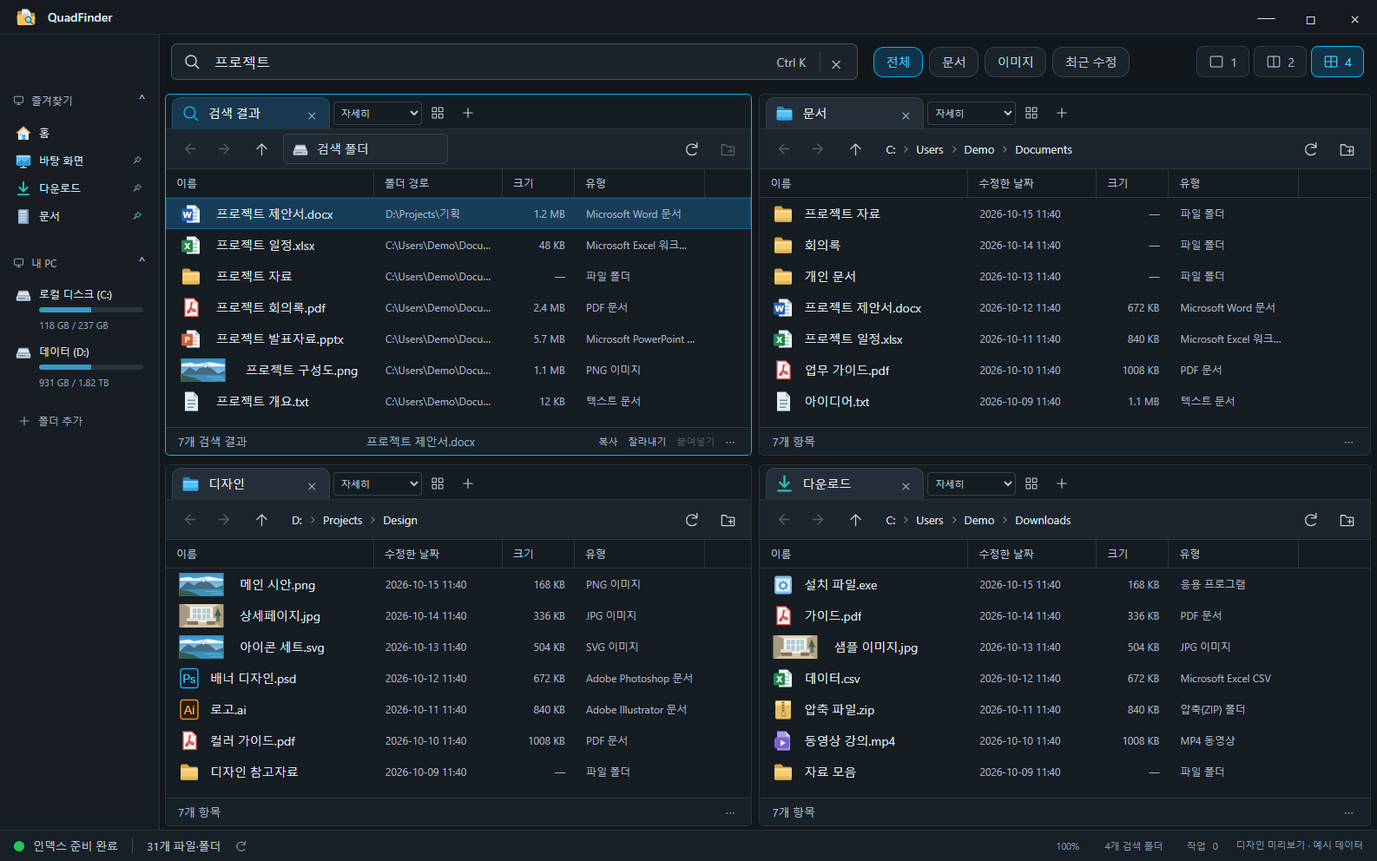
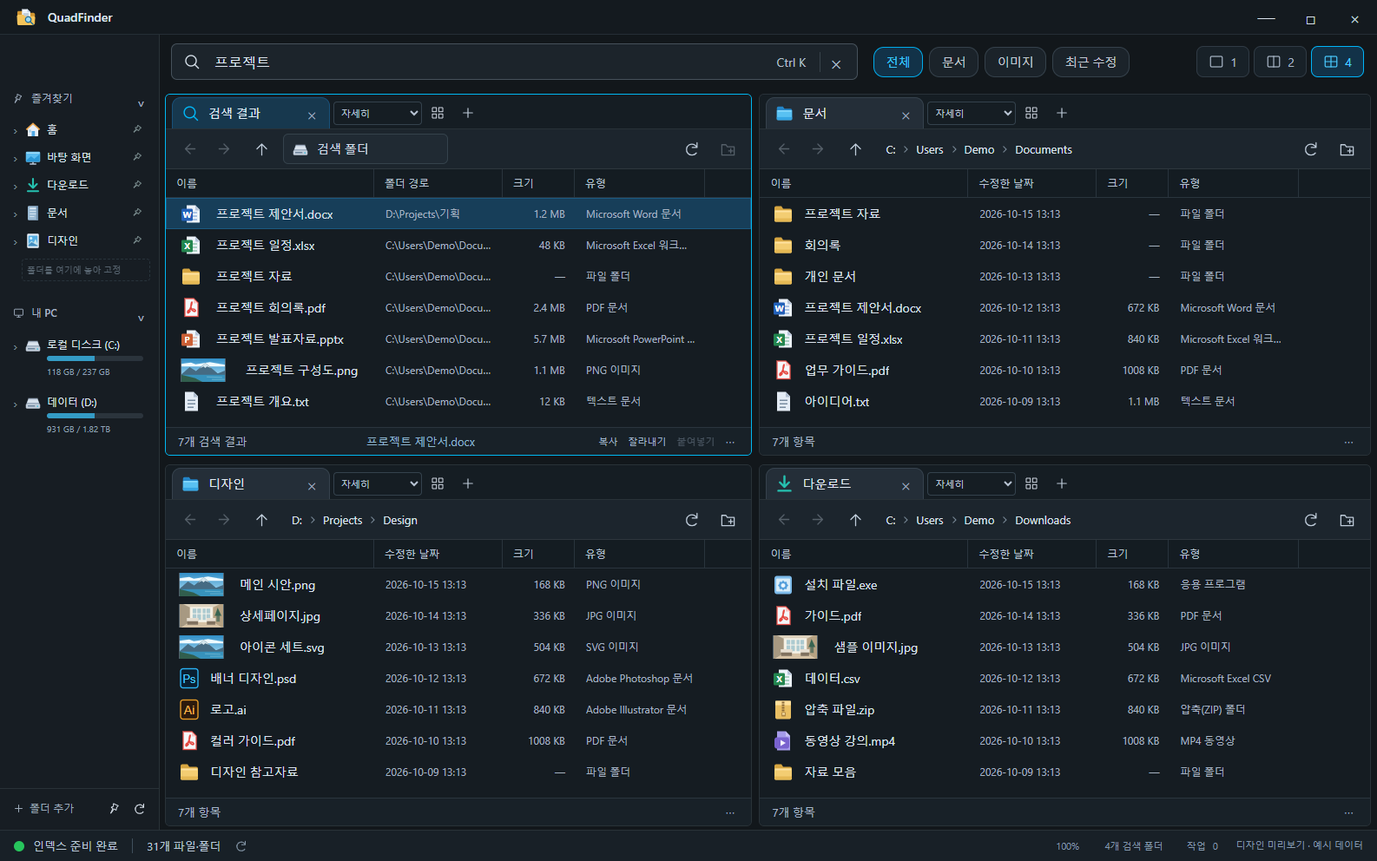
네비게이션 접기와 폴더 트리 및 즐겨찾기 관리 기능 추가

Changed region(s): [[0.0, 0.0938, 0.1236, 0.5]]

diff --git a/src/renderer/sidebar.js b/src/renderer/sidebar.js
@@ -1,0 +1,121 @@
+const sidebarCache=new Map();
+let sidebarSequence=0,sidebarDrag=null,sidebarLabelPath=null,sidebarTimer,sidebarDirty=new Set();
+function navState(){return state.navigation||(state.navigation=NavigationState.normalize());}
+const navKey=value=>NavigationState.key(value);
+function customLocations(){
+  const settings=navState(),known=new Set(state.boot.places.map(item=>navKey(item.path))),hidden=new Set(settings.hidden.map(navKey));
+  const paths=[...new Map([...settings.favorites,...state.boot.roots].filter(path=>!known.has(navKey(path))&&!hidden.has(navKey(path))).map(path=>[navKey(path),path])).values()];
+  const order=new Map(settings.order.map((path,i)=>[navKey(path),i]));return paths.sort((a,b)=>(order.get(navKey(a))??1e6)-(order.get(navKey(b))??1e6));
+}
+function saveNavigation(){state.navigation=NavigationState.normalize(navState());save();}
+function toggleNavSection(section,collapsed=!navState().collapsed[section]){
+  navState().collapsed[section]=collapsed;
+  const button=document.querySelector(`[data-nav-section="${section}"]`),group=$('#'+button.getAttribute('aria-controls'));
+  button.setAttribute('aria-expanded',String(!collapsed));button.querySelector('.collapse-mark').textContent=collapsed?'›':'⌄';group.hidden=collapsed;
+  syncSidebar();saveNavigation();
+  if(!collapsed)for(const node of group.querySelectorAll('.nav-item'))if(node.querySelector('.nav-toggle').getAttribute('aria-expanded')==='true'&&!node.closest('.nav-children[hidden]'))loadNavChildren(node,sidebarDirty.delete(node.dataset.navPath));
+}
+function pinLocation(path){
+  const settings=navState();settings.hidden=settings.hidden.filter(value=>navKey(value)!==navKey(path));
+  if(!settings.favorites.some(value=>navKey(value)===navKey(path)))settings.favorites.push(path);
+  settings.collapsed.favorites=false;saveNavigation();renderSidebar();
+}
+function unpinLocation(path){const settings=navState();settings.favorites=settings.favorites.filter(value=>navKey(value)!==navKey(path));if(state.boot.roots.some(value=>navKey(value)===navKey(path)))settings.hidden.push(path);saveNavigation();renderSidebar();toast('바로가기를 제거했습니다. 실제 폴더와 검색 대상은 유지됩니다.');}
+function reorderLocation(path,before){const paths=customLocations(),from=paths.findIndex(value=>navKey(value)===navKey(path)),to=paths.findIndex(value=>navKey(value)===navKey(before));if(from<0||to<0||from===to)return;paths.splice(to,0,paths.splice(from,1)[0]);navState().order=paths;saveNavigation();renderSidebar();}
+function openSidebarPath(path,mode='current'){
+  let index=state.active;
+  if(mode==='other'){if(state.layout===1)applyLayout(2);index=index===0?1:0;}
+  if(mode==='tab'){const pane=state.panes[index];if(pane.tabs.length>=20)return toast('패널당 최대 20개 탭을 사용할 수 있습니다.');pane.tabs.push(makeTab(path));pane.active=pane.tabs.length-1;setActive(index);renderPane(index);load(index);save();}
+  else {setActive(index);navigate(index,path);}
+}
+async function treeEntries(path,reload=false){
+  const key=navKey(path);if(reload)sidebarCache.delete(key);
+  let entry=sidebarCache.get(key);if(entry?.entries)return entry.entries;if(entry?.promise)return entry.promise;
+  entry={};sidebarCache.set(key,entry);if(sidebarCache.size>128)sidebarCache.delete(sidebarCache.keys().next().value);
+  entry.promise=(api.folders?call(api.folders(path)):call(api.list(path)).then(data=>data.entries.filter(item=>item.directory&&!item.link))).then(entries=>{entry.entries=entries;entry.promise=null;return entries;}).catch(error=>{sidebarCache.delete(key);throw error;});return entry.promise;
+}
+function makeNavItem(item,category,depth=0,parentPath=null,section=category==='drive'?'pc':'favorites'){
+  const path=item.path,key=navKey(path),expanded=navState().expanded.some(value=>navKey(value)===key),id='nav-children-'+(++sidebarSequence);
+  const node=document.createElement('div');node.className='nav-item';node.dataset.navPath=path;node.dataset.category=category;node.dataset.section=section;node.dataset.depth=depth;node.style.setProperty('--depth',depth);
+  const label=navState().labels[key]||item.label||basename(path),drive=category==='drive';node.dataset.label=label;
+  node.innerHTML=`<div class="nav-row"><button class="nav-toggle" aria-label="${escapeHTML(label)} 하위 폴더 ${expanded?'접기':'펼치기'}" aria-expanded="${expanded}" aria-controls="${id}" ${depth>=12?'disabled':''}>${expanded?'⌄':'›'}</button><button class="nav-location ${drive?'drive-button':''}" role="treeitem" aria-level="${depth+1}" aria-expanded="${expanded}" data-location="${escapeHTML(path)}" ${category==='custom'&&depth===0?'data-root-nav="true" draggable="true"':''} title="${escapeHTML(path)} · Ctrl+클릭 또는 휠클릭: 새 탭">${icon(item.icon||'folder-blue')}${drive?`<span class="drive-info"><span>${escapeHTML(label)}</span>${item.total?`<span class="drive-meter" role="meter" aria-label="${escapeHTML(label)} 사용량" aria-valuemin="0" aria-valuemax="100" aria-valuenow="${Math.round(100*item.used/item.total)}"><i class="drive-fill"></i></span><small>${driveSize(item.used)} / ${driveSize(item.total)}</small>`:''}</span>`:`<span class="nav-label">${escapeHTML(label)}</span>${category!=='child'&&category!=='drive'?`<span class="place-pin">${icon('pin')}</span>`:''}`}</button></div><div id="${id}" class="nav-children" role="group" ${expanded?'':'hidden'}></div>`;
+  const button=node.querySelector('.nav-location'),toggle=node.querySelector('.nav-toggle');
+  node.querySelector('.drive-fill')?.style.setProperty('width',`${Math.min(100,Math.max(0,100*item.used/item.total))}%`);
+  button.onclick=event=>openSidebarPath(path,event.ctrlKey||event.metaKey?'tab':'current');button.onauxclick=event=>{if(event.button===1){event.preventDefault();openSidebarPath(path,'tab');}};
+  button.oncontextmenu=event=>{event.preventDefault();event.stopPropagation();showSidebarMenu(path,category,event.clientX,event.clientY);};
+  toggle.onclick=()=>expandNavItem(node,toggle.getAttribute('aria-expanded')!=='true');
+  button.onkeydown=event=>{
+    if(event.altKey&&event.key==='Enter'){event.preventDefault();event.stopPropagation();if(api.shellMenu)call(api.shellMenu({paths:[path],verb:'properties',x:0,y:0})).catch(error=>toast(error.message));return;}
+    if(event.altKey)return;
+    if(['ArrowDown','ArrowUp','Home','End','ArrowLeft','ArrowRight','F5','ContextMenu','F2','Delete'].includes(event.key)||(event.shiftKey&&event.key==='F10')||(event.ctrlKey&&event.key.toLowerCase()==='c')){
+      event.preventDefault();event.stopPropagation();
+      const visible=Array.from(document.querySelectorAll('#sidebar .nav-location')).filter(element=>element.getClientRects().length),position=visible.indexOf(button);
+      if(event.key==='ArrowDown')visible[Math.min(visible.length-1,position+1)]?.focus();if(event.key==='ArrowUp')visible[Math.max(0,position-1)]?.focus();if(event.key==='Home')visible[0]?.focus();if(event.key==='End')visible.at(-1)?.focus();
+      if(event.key==='ArrowRight'){if(toggle.getAttribute('aria-expanded')!=='true')expandNavItem(node,true);else node.querySelector('.nav-children .nav-location')?.focus();}
+      if(event.key==='ArrowLeft'){if(toggle.getAttribute('aria-expanded')==='true')expandNavItem(node,false);else if(parentPath)node.parentElement.closest('.nav-item')?.querySelector('.nav-location')?.focus();}
+      if(event.key==='F5')refreshSidebar();if(event.key==='F2'&&category==='custom')renameSidebarLabel(path);if(event.key==='Delete'&&category==='custom')unpinLocation(path);
+      if(event.key==='ContextMenu'||(event.shiftKey&&event.key==='F10')){const rect=button.getBoundingClientRect();showSidebarMenu(path,category,rect.x+20,rect.bottom);}
+      if(event.ctrlKey&&event.key.toLowerCase()==='c'){if(event.shiftKey&&api.copyPaths)call(api.copyPaths([path])).catch(error=>toast(error.message));else if(api.writeClipboard)call(api.writeClipboard({kind:'copy',paths:[path]})).then(()=>{fileClipboard={kind:'copy',paths:[path]};state.panes.forEach((_,i)=>updateSelection(i));toast('폴더를 복사했습니다.');}).catch(error=>toast(error.message));}
+    }
+  };
+  if(category==='custom'&&depth===0){button.ondragstart=event=>{sidebarDrag=path;event.dataTransfer.setData('application/x-quadfinder-navigation',path);event.dataTransfer.effectAllowed='move';};button.ondragend=()=>{sidebarDrag=null;document.querySelectorAll('.nav-drop-target').forEach(element=>element.classList.remove('nav-drop-target'));};}
+  button.ondragover=event=>{if((sidebarDrag&&category==='custom'&&depth===0)||(!sidebarDrag&&(event.dataTransfer.types.includes('application/x-quadfinder')||event.dataTransfer.types.includes('Files')))){event.preventDefault();event.dataTransfer.dropEffect=sidebarDrag?'move':event.shiftKey?'move':'copy';button.classList.add('nav-drop-target');}};
+  button.ondragleave=()=>button.classList.remove('nav-drop-target');
+  button.ondrop=async event=>{event.preventDefault();event.stopPropagation();button.classList.remove('nav-drop-target');if(sidebarDrag){if(category==='custom'&&depth===0)reorderLocation(sidebarDrag,path);sidebarDrag=null;return;}const paths=await sidebarDropPaths(event);if(paths.length)await transfer(event.shiftKey?'move':'copy',paths,path);};
+  if(expanded&&!navState().collapsed[section])loadNavChildren(node);return node;
+}
+async function expandNavItem(node,expanded){
+  const path=node.dataset.navPath,settings=navState();settings.expanded=settings.expanded.filter(value=>navKey(value)!==navKey(path));if(expanded)settings.expanded.push(path);
+  const toggle=node.querySelector('.nav-toggle');toggle.setAttribute('aria-expanded',expanded);toggle.setAttribute('aria-label',`${node.dataset.label} 하위 폴더 ${expanded?'접기':'펼치기'}`);toggle.textContent=expanded?'⌄':'›';node.querySelector('.nav-location').setAttribute('aria-expanded',expanded);node.querySelector('.nav-children').hidden=!expanded;
+  saveNavigation();syncSidebar();if(expanded)await loadNavChildren(node,sidebarDirty.delete(path));
+}
+async function loadNavChildren(node,reload=false){
+  const children=node.querySelector('.nav-children'),path=node.dataset.navPath;if(!children.childElementCount)children.innerHTML='<small class="tree-message">불러오는 중…</small>';
+  try{const entries=await treeEntries(path,reload);if(!node.isConnected)return;if((!refreshFocused&&!state.boot.preview)||navState().collapsed[node.dataset.section]){sidebarDirty.add(path);return;}const signature=entries.map(item=>item.path).join('\n');if(children.dataset.signature===signature)return;children.dataset.signature=signature;
+    let limit=100;const render=()=>{children.replaceChildren(...entries.slice(0,limit).map(item=>makeNavItem(item,'child',Number(node.dataset.depth)+1,path,node.dataset.section)));if(!entries.length)children.innerHTML='<small class="tree-message">하위 폴더 없음</small>';if(entries.length>limit){const more=document.createElement('button');more.className='tree-more';more.textContent=`폴더 더 보기 (${entries.length-limit}개)`;more.onclick=()=>{limit+=100;render();};children.append(more);}syncSidebar();};render();
+  }catch(error){if(!node.isConnected)return;children.innerHTML='<button class="tree-retry">폴더를 불러올 수 없습니다 · 다시 시도</button>';children.firstElementChild.title=error.message;children.firstElementChild.onclick=()=>loadNavChildren(node,true);}
+}
+function renderSidebar(){
+  if(!state.boot)return;const settings=navState(),scroll=$('.sidebar-scroll').scrollTop;
+  $('#places').replaceChildren(...state.boot.places.map(item=>makeNavItem(item,'place')));
+  $('#custom-places').replaceChildren(...customLocations().map(path=>makeNavItem({path},'custom')));
+  $('#drives').replaceChildren(...state.boot.drives.map(item=>makeNavItem(item,'drive')));
+  for(const section of ['favorites','pc']){const button=document.querySelector(`[data-nav-section="${section}"]`),collapsed=settings.collapsed[section];button.setAttribute('aria-expanded',String(!collapsed));button.querySelector('.collapse-mark').textContent=collapsed?'›':'⌄';$('#'+button.getAttribute('aria-controls')).hidden=collapsed;}
+  $('.sidebar-scroll').scrollTop=scroll;syncSidebar();
+}
+function renameSidebarLabel(path){sidebarLabelPath=path;$('#nav-label-dialog').returnValue='cancel';$('#nav-label-input').value=navState().labels[navKey(path)]||basename(path);$('#nav-label-dialog').showModal();$('#nav-label-input').focus();$('#nav-label-input').select();}
+function showSidebarMenu(path,category,x,y){
+  const menu=$('#context-menu'),custom=category==='custom',indexed=state.boot.roots.some(value=>navKey(value)===navKey(path));menu.className='explorer-menu';
+  const actions=[['open','열기'],['tab','새 탭에서 열기'],['other','다른 패널에서 열기'],['reveal','Windows 탐색기에서 열기'],['path','경로 복사'],[custom?'unpin':'pin',custom?'즐겨찾기에서 제거':'즐겨찾기에 고정'],...(custom?[['label','표시 이름 변경'],['up','위로 이동'],['down','아래로 이동']]:[]),[indexed?'exclude':'include',indexed?'검색 대상에서 제외':'검색 대상에 포함'],['refresh','하위 폴더 새로고침'],['properties','속성']];
+  const order=customLocations(),position=order.findIndex(value=>navKey(value)===navKey(path));
+  menu.innerHTML=actions.map(([action,label])=>`<button role="menuitem" data-nav-action="${action}" ${(action==='up'&&position<=0)||(action==='down'&&position>=order.length-1)||(action==='properties'&&!api.shellMenu)||(action==='include'&&!api.addRoot)||(action==='exclude'&&!api.removeRoot)?'disabled':''}>${['pin','unpin'].includes(action)?icon('pin'):action==='up'?icon('up'):action==='down'?icon('up').replace('<svg','<svg class="nav-arrow-down"'):['include','exclude'].includes(action)?icon('search'):menuIcon(action==='label'?'rename':action==='tab'?'other':action)}<span>${label}</span></button>`).join('');positionMenu(menu,x,y);
+  menu.querySelectorAll('button').forEach(button=>button.onclick=async()=>{menu.hidden=true;const action=button.dataset.navAction;try{
+    if(['open','tab','other'].includes(action))openSidebarPath(path,action==='open'?'current':action);
+    if(action==='reveal')await call(api.open(path));if(action==='path'&&api.copyPaths)await call(api.copyPaths([path]));if(action==='pin')pinLocation(path);if(action==='unpin')unpinLocation(path);if(action==='label')renameSidebarLabel(path);
+    if(action==='up'||action==='down'){const paths=customLocations(),index=paths.findIndex(value=>navKey(value)===navKey(path)),other=paths[index+(action==='up'?-1:1)];if(other)reorderLocation(path,other);}
+    if(action==='include'&&api.addRoot){pinLocation(path);renderRoots(await call(api.addRoot(path)));}if(action==='exclude'&&api.removeRoot){pinLocation(path);renderRoots(await call(api.removeRoot(path)));}
+    if(action==='refresh'){sidebarCache.delete(navKey(path));for(const node of document.querySelectorAll('.nav-item'))if(navKey(node.dataset.navPath)===navKey(path)&&node.querySelector('.nav-toggle').getAttribute('aria-expanded')==='true')loadNavChildren(node,true);}
+    if(action==='properties'&&api.shellMenu)await call(api.shellMenu({paths:[path],verb:'properties',x,y}));
+  }catch(error){toast(error.message);}});menu.querySelector('button')?.focus();
+}
+async function sidebarDropPaths(event){try{if(draggedPaths?.length)return [...draggedPaths];const value=event.dataTransfer.getData('application/x-quadfinder');if(value){const parsed=JSON.parse(value);return Array.isArray(parsed)?parsed.filter(item=>typeof item==='string').slice(0,256):[];}if(event.dataTransfer.files.length&&api.dropPaths)return await api.dropPaths(Array.from(event.dataTransfer.files));}catch(error){toast(error.message);}return [];}
+async function pinDroppedFolders(event){event.preventDefault();event.stopPropagation();event.currentTarget.classList.remove('nav-drop-target');const paths=await sidebarDropPaths(event);let count=0;for(const path of paths)try{const folder=api.validateFolder?await call(api.validateFolder(path)):path;pinLocation(folder);count++;}catch{}toast(count?`${count}개 폴더를 즐겨찾기에 고정했습니다.`:'폴더를 놓아주세요.');}
+async function refreshSidebar(){try{if(api.refreshDrives)state.boot.drives=await call(api.refreshDrives());sidebarCache.clear();renderSidebar();}catch(error){toast(error.message);}}
+function setupSidebarNavigation(saved){
+  state.navigation=NavigationState.normalize(saved);renderSidebar();
+  document.querySelectorAll('[data-nav-section]').forEach(button=>{button.onclick=()=>toggleNavSection(button.dataset.navSection);button.onkeydown=event=>{if(event.altKey)return;if(['ArrowLeft','ArrowRight'].includes(event.key)){event.preventDefault();toggleNavSection(button.dataset.navSection,event.key==='ArrowLeft');}};});
+  for(const element of [document.querySelector('[data-nav-section="favorites"]'),$('.pin-drop-zone')]){element.ondragover=event=>{if(event.dataTransfer.types.includes('application/x-quadfinder')||event.dataTransfer.types.includes('Files')){event.preventDefault();event.dataTransfer.dropEffect=['all','uninitialized','link','copyLink','linkMove'].includes(event.dataTransfer.effectAllowed)?'link':'copy';element.classList.add('nav-drop-target');}};element.ondragleave=()=>element.classList.remove('nav-drop-target');element.ondrop=pinDroppedFolders;}
+  $('#choose-folder').onclick=()=>{$('#nav-add-path').value='';$('#nav-add-error').textContent='';$('#nav-add-dialog').showModal();$('#nav-add-path').focus();};
+  $('#pin-current').onclick=()=>{const tab=tabOf(state.panes[state.active]);if(tab.search)return toast('고정할 폴더 패널을 선택하세요.');pinLocation(tab.path);toast('현재 폴더를 즐겨찾기에 고정했습니다.');};
+  $('#refresh-sidebar').onclick=refreshSidebar;$('#nav-add-cancel').onclick=()=>$('#nav-add-dialog').close();
+  $('#nav-add-choose').onclick=async()=>{try{const folder=await call(api.chooseFolder(false));if(folder)$('#nav-add-path').value=folder;}catch(error){$('#nav-add-error').textContent=error.message;}};
+  $('#nav-add-dialog form').onsubmit=async event=>{event.preventDefault();$('#nav-add-submit').disabled=true;try{const path=api.validateFolder?await call(api.validateFolder($('#nav-add-path').value.trim())):$('#nav-add-path').value.trim();pinLocation(path);if($('#nav-add-index').checked&&api.addRoot)renderRoots(await call(api.addRoot(path)));$('#nav-add-dialog').close();openSidebarPath(path);}catch(error){$('#nav-add-error').textContent=error.message;}finally{$('#nav-add-submit').disabled=false;}};
+  $('#nav-label-dialog').onclose=()=>{if($('#nav-label-dialog').returnValue!=='save'||!sidebarLabelPath)return;const label=$('#nav-label-input').value.trim();if(label)navState().labels[navKey(sidebarLabelPath)]=label;else delete navState().labels[navKey(sidebarLabelPath)];saveNavigation();renderSidebar();};
+  $('#sidebar').addEventListener('keydown',event=>{if(event.key==='F5'){event.preventDefault();event.stopPropagation();refreshSidebar();}});
+  api.onFilesChanged?.(paths=>{for(const node of document.querySelectorAll('.nav-item'))if(node.querySelector('.nav-toggle').getAttribute('aria-expanded')==='true'&&ChangePolicy.affects(node.dataset.navPath,paths))sidebarDirty.add(node.dataset.navPath);scheduleSidebarRefresh();});
+  window.addEventListener('focus',scheduleSidebarRefresh);
+}
+function scheduleSidebarRefresh(){
+  clearTimeout(sidebarTimer);if(!refreshFocused||!sidebarDirty.size)return;
+  sidebarTimer=setTimeout(()=>{if(!refreshFocused)return;const paths=[...sidebarDirty];sidebarDirty.clear();for(const path of paths){sidebarCache.delete(navKey(path));for(const node of document.querySelectorAll('.nav-item'))if(navKey(node.dataset.navPath)===navKey(path)&&node.querySelector('.nav-toggle').getAttribute('aria-expanded')==='true'){if(navState().collapsed[node.dataset.section]||node.closest('.nav-children[hidden]'))sidebarDirty.add(path);else loadNavChildren(node);}}},300);
+}

diff --git a/src/renderer/index.html b/src/renderer/index.html
@@ -11,6 +11,8 @@
   <script src="preview.js" defer></script>
   <script src="change-policy.js" defer></script>
   <script src="view-options.js" defer></script>
+  <script src="navigation-state.js" defer></script>
+  <script src="sidebar.js" defer></script>
   <script src="view-ui.js" defer></script>
   <script src="features.js" defer></script>
   <script src="renderer.js" defer></script>
@@ -22,12 +24,13 @@
   </header>
   <main class="app-shell">
     <aside class="sidebar" id="sidebar">
-      <div class="sidebar-heading"><span data-icon="desktop-small"></span>즐겨찾기 <span class="collapse-mark">⌃</span></div>
-      <nav id="places" aria-label="즐겨찾기"></nav>
-      <nav id="custom-places" aria-label="추가한 검색 폴더"></nav>
-      <div class="sidebar-heading drives-heading"><span data-icon="desktop-small"></span>내 PC <span class="collapse-mark">⌃</span></div>
-      <nav id="drives" aria-label="드라이브"></nav>
-      <button id="choose-folder" class="add-location"><span data-icon="plus"></span>폴더 추가</button>
+      <div class="sidebar-scroll">
+        <button class="sidebar-heading" data-nav-section="favorites" aria-expanded="true" aria-controls="favorites-group"><span data-icon="pin"></span><span>즐겨찾기</span><span class="collapse-mark" aria-hidden="true">⌄</span></button>
+        <div id="favorites-group"><nav id="places" aria-label="즐겨찾기" role="tree"></nav><nav id="custom-places" aria-label="추가한 폴더" role="tree"></nav><div class="pin-drop-zone" title="폴더를 놓으면 즐겨찾기에 고정합니다">폴더를 여기에 놓아 고정</div></div>
+        <button class="sidebar-heading drives-heading" data-nav-section="pc" aria-expanded="true" aria-controls="pc-group"><span data-icon="desktop-small"></span><span>내 PC</span><span class="collapse-mark" aria-hidden="true">⌄</span></button>
+        <div id="pc-group"><nav id="drives" aria-label="드라이브" role="tree"></nav></div>
+      </div>
+      <div class="sidebar-tools"><button id="choose-folder" class="add-location" title="로컬·네트워크 폴더 추가"><span data-icon="plus"></span>폴더 추가</button><button id="pin-current" title="현재 폴더를 즐겨찾기에 고정" aria-label="현재 폴더 고정"><span data-icon="pin"></span></button><button id="refresh-sidebar" title="폴더 트리와 드라이브 새로고침" aria-label="네비게이션 새로고침"><span data-icon="refresh"></span></button></div>
       <div id="sidebar-resizer" role="separator" tabindex="0" aria-label="탐색 영역 너비 조절" aria-orientation="vertical" aria-controls="sidebar" aria-valuemin="150" aria-valuemax="400" aria-valuenow="184" title="드래그하여 너비 조절 · 더블클릭으로 초기화 · 방향키로 조절"></div>
     </aside>
     <section class="workspace">
@@ -43,6 +46,8 @@
   <dialog id="folder-dialog"><form method="dialog"><h2>새 폴더 만들기</h2><p id="folder-parent"></p><label>폴더 이름<input id="folder-name" required maxlength="200" autocomplete="off"></label><div class="dialog-actions"><button value="cancel">취소</button><button id="create-folder" value="create" class="primary">만들기</button></div></form></dialog>
   <dialog id="rename-dialog"><form method="dialog"><h2>이름 변경</h2><p id="rename-path"></p><label>새 이름<input id="rename-name" required maxlength="240" autocomplete="off"></label><div class="dialog-actions"><button value="cancel" formnovalidate>취소</button><button value="rename" class="primary">변경</button></div></form></dialog>
   <dialog id="roots-dialog"><h2>검색 폴더</h2><p>아래 폴더와 하위 폴더의 파일 이름을 검색합니다.</p><div id="root-list"></div><div class="root-path-row"><input id="root-path" aria-label="추가할 로컬 또는 네트워크 폴더 경로" placeholder="C:\Projects 또는 \\NAS\공유폴더"><button id="add-root-path">경로 추가</button></div><div class="dialog-actions"><button id="add-root">폴더 선택</button><button id="close-roots" class="primary">닫기</button></div></dialog>
+  <dialog id="nav-add-dialog"><form><h2>폴더 추가</h2><p>로컬 폴더 또는 네트워크 공유 경로를 입력하세요.</p><label>폴더 경로<input id="nav-add-path" required placeholder="C:\Projects 또는 \\NAS\공유폴더" autocomplete="off"></label><label class="nav-check"><input id="nav-add-index" type="checkbox" checked>검색 대상에도 포함</label><p id="nav-add-error" role="alert"></p><div class="dialog-actions"><button type="button" id="nav-add-cancel">취소</button><button type="button" id="nav-add-choose">폴더 선택</button><button type="submit" id="nav-add-submit" class="primary">추가</button></div></form></dialog>
+  <dialog id="nav-label-dialog"><form method="dialog"><h2>바로가기 표시 이름</h2><p>실제 폴더 이름은 변경하지 않습니다. 비우면 원래 이름을 사용합니다.</p><input id="nav-label-input" maxlength="80" aria-label="바로가기 표시 이름"><div class="dialog-actions"><button value="cancel">취소</button><button value="save" class="primary">저장</button></div></form></dialog>
   <dialog id="columns-dialog"><h2>자세히 보기 열</h2><p>표시할 열을 선택하고 순서를 조절하세요. 열 제목도 드래그하여 옮길 수 있습니다.</p><div id="column-options"></div><div class="dialog-actions"><button id="cancel-columns">취소</button><button id="apply-columns" class="primary">적용</button></div></dialog>
   <dialog id="properties-dialog"><h2>파일 정보</h2><div id="properties-content"></div><div class="dialog-actions"><button id="close-properties" class="primary">닫기</button></div></dialog>
   <aside id="operations-panel" hidden aria-label="파일 작업"><header><strong>파일 작업</strong><button id="clear-jobs">완료 항목 지우기</button><button id="close-jobs" aria-label="작업 창 닫기">×</button></header><div id="job-list"></div><p>취소하면 완료된 항목은 유지됩니다. 이동한 원본은 Windows 휴지통에서 복원할 수 있습니다.</p></aside>

diff --git a/src/renderer/renderer.js b/src/renderer/renderer.js
@@ -56,7 +56,7 @@ function fileType(entry) {
 }
 function sizeLabel(entry) { if (entry.directory) return '—'; const bytes = entry.size; if (bytes < 1024) return `${bytes} B`; if (bytes < 1048576) return `${(bytes / 1024).toFixed(0)} KB`; if (bytes < 1073741824) return `${(bytes / 1048576).toFixed(1)} MB`; return `${(bytes / 1073741824).toFixed(1)} GB`; }
 function dateLabel(value) { const d = new Date(value); return `${d.getFullYear()}-${String(d.getMonth()+1).padStart(2,'0')}-${String(d.getDate()).padStart(2,'0')} ${String(d.getHours()).padStart(2,'0')}:${String(d.getMinutes()).padStart(2,'0')}`; }
-function save() { clearTimeout(saveTimer); saveTimer = setTimeout(() => call(api.saveLayout({ layout: state.layout, sidebarWidth: state.sidebarWidth, folderViews:state.folderViews, panes: state.panes.map(pane => ({ active: pane.active, tabs: pane.tabs.map(tab => ({path:tab.path,view:tab.view,options:viewOf(tab)})) })) })).catch(error => toast(`레이아웃 저장 실패: ${error.message}`)), 150); }
+function save() { clearTimeout(saveTimer); saveTimer = setTimeout(() => call(api.saveLayout({ layout: state.layout, sidebarWidth: state.sidebarWidth, navigation:navState(), folderViews:state.folderViews, panes: state.panes.map(pane => ({ active: pane.active, tabs: pane.tabs.map(tab => ({path:tab.path,view:tab.view,options:viewOf(tab)})) })) })).catch(error => toast(`레이아웃 저장 실패: ${error.message}`)), 150); }
 function setupSidebar(savedWidth) {
   const sidebar=$('#sidebar'), handle=$('#sidebar-resizer');
   let drag=null;
@@ -108,8 +108,9 @@ function setActive(index) { state.active = index;syncSidebar(); document.querySe
 function syncSidebar(){
   const pane=state.panes[state.active];if(!pane)return;
   const tab=tabOf(pane),current=ChangePolicy.key(tab.path),buttons=[...document.querySelectorAll('nav [data-location]')];
-  const selected=tab.search?null:buttons.filter(button=>{const key=ChangePolicy.key(button.dataset.location);return current===key||current.startsWith(key+'\\');}).sort((a,b)=>b.dataset.location.length-a.dataset.location.length)[0];
-  buttons.forEach(button=>{const active=button===selected;button.classList.toggle('active',active);if(active)button.setAttribute('aria-current','location');else button.removeAttribute('aria-current');});
+  const selected=tab.search?null:buttons.filter(button=>!button.closest('.nav-children[hidden]')).filter(button=>{const key=ChangePolicy.key(button.dataset.location);return current===key||current.startsWith(key+'\\');}).sort((a,b)=>b.dataset.location.length-a.dataset.location.length||Number(a.closest('.nav-item')?.dataset.depth||0)-Number(b.closest('.nav-item')?.dataset.depth||0))[0];
+  buttons.forEach(button=>{const active=button===selected;button.classList.toggle('active',active);button.setAttribute('aria-selected',String(active));if(active)button.setAttribute('aria-current','location');else button.removeAttribute('aria-current');});
+  document.querySelectorAll('[data-nav-section]').forEach(button=>{const group=$('#'+button.getAttribute('aria-controls'));button.classList.toggle('section-current',!!selected&&group.hidden&&group.contains(selected));});
 }
 function applyLayout(value) { state.layout = value; if (state.active >= value) state.active = 0; $('#panes').className = `panes layout-${value}`; document.querySelectorAll('[data-layout]').forEach(button => { const active = Number(button.dataset.layout) === value; button.classList.toggle('active', active); button.setAttribute('aria-pressed', active); }); state.panes.forEach((pane, i) => { pane.element.hidden = i >= value; }); setActive(state.active); save();if(window.__quadfinderReady)queueRefresh(state.panes.slice(0,value).map(pane=>tabOf(pane).path)); }
 
@@ -244,12 +245,7 @@ async function init() {
     if(pane.active>=pane.tabs.length)pane.active=0;
     state.panes.push(pane); element.addEventListener('pointerdown',event=>{if(event.button<3)setActive(i);}); renderPane(i);
   }
-  for(const [selector,items] of [['#places',boot.places.filter(place=>place.icon!=='image')],['#drives',boot.drives]]) {
-    $(selector).innerHTML=items.map((place,i)=>`<button data-location="${escapeHTML(place.path)}" data-place="${i}" class="${selector==='#drives'?'drive-button':''}" title="${escapeHTML(place.path)}">${icon(place.icon)}${selector==='#drives'?`<span class="drive-info"><span>${escapeHTML(place.label)}</span>${place.total?`<span class="drive-meter" role="meter" aria-label="${escapeHTML(place.label)} 사용량" aria-valuemin="0" aria-valuemax="100" aria-valuenow="${Math.round(100*place.used/place.total)}"><i class="drive-fill" data-percent="${Math.round(100*place.used/place.total)}"></i></span><small>${driveSize(place.used)} / ${driveSize(place.total)}</small>`:''}</span>`:`<span>${escapeHTML(place.label)}</span>${place.icon!=='home'?`<span class="place-pin">${icon('pin')}</span>`:''}`}</button>`).join('');
-    $(selector).querySelectorAll('.drive-fill').forEach(bar=>bar.style.width=`${bar.dataset.percent}%`);
-    $(selector).querySelectorAll('button').forEach(button=>button.onclick=()=>{ navigate(state.active,items[Number(button.dataset.place)].path); });
-  }
-  $('#choose-folder').onclick=async()=>{try{const path=await call(api.chooseFolder());if(path){navigate(state.active,path);$('#scope-label').textContent='즐겨찾기 + 추가한 폴더에서 검색';}}catch(error){toast(error.message);}};
+  setupSidebarNavigation(saved?.navigation);
   document.querySelectorAll('[data-window]').forEach(button=>button.onclick=()=>call(api.windowAction(button.dataset.window)).catch(error=>toast(error.message)));
   document.querySelectorAll('[data-layout]').forEach(button=>button.onclick=()=>applyLayout(Number(button.dataset.layout)));
   document.querySelectorAll('[data-filter]').forEach(button=>button.onclick=()=>{state.filter=button.dataset.filter;document.querySelectorAll('[data-filter]').forEach(item=>item.classList.toggle('active',item===button));if(state.query)runSearch();else toast('검색어를 입력하면 선택한 필터가 적용됩니다.');});

diff --git a/src/renderer/features.js b/src/renderer/features.js
@@ -124,16 +124,13 @@ async function flushRefresh(){
   try{await Promise.all(state.panes.map((pane,i)=>i<state.layout&&!tabOf(pane).search&&ChangePolicy.affects(tabOf(pane).path,paths)?refreshTab(i):Promise.resolve()));if(search&&refreshFocused)await refreshSearch();}
   finally{refreshRunning=false;if(pendingRefreshAll||pendingRefreshPaths.size||pendingSearch)queueRefresh([]);}
 }
-function setRefreshFocus(focused){refreshFocused=focused;document.body.classList.toggle('app-unfocused',!focused);if(!focused){clearTimeout(refreshTimer);return;}if(pendingRefreshAll||pendingRefreshPaths.size||pendingSearch)queueRefresh([]);}
+function setRefreshFocus(focused){refreshFocused=focused;document.body.classList.toggle('app-unfocused',!focused);if(!focused){clearTimeout(refreshTimer);return;}scheduleSidebarRefresh();if(pendingRefreshAll||pendingRefreshPaths.size||pendingSearch)queueRefresh([]);}
 
 function renderRoots(roots){
   state.boot.roots=roots;$('#scope-label').textContent=`${roots.length}개 검색 폴더`;
   $('#root-list').innerHTML=roots.length?roots.map((root,i)=>`<div class="root-item"><span title="${escapeHTML(root)}">${escapeHTML(root)}</span><button data-remove-root="${i}" aria-label="${escapeHTML(root)} 검색 제외">제외</button></div>`).join(''):'<p>검색 폴더를 추가하세요.</p>';
   $('#root-list').querySelectorAll('button').forEach(button=>button.onclick=()=>call(api.removeRoot(roots[Number(button.dataset.removeRoot)])).then(renderRoots).catch(error=>toast(error.message)));
-  const custom=roots.filter(root=>!state.boot.places.some(place=>place.path.toLowerCase()===root.toLowerCase()));
-  $('#custom-places').innerHTML=custom.map((root,i)=>`<button data-location="${escapeHTML(root)}" data-root-nav="${i}" title="${escapeHTML(root)}">${icon('folder-blue')}<span>${escapeHTML(basename(root))}</span></button>`).join('');
-  $('#custom-places').querySelectorAll('button').forEach(button=>button.onclick=()=>navigate(state.active,custom[Number(button.dataset.rootNav)]));
-  syncSidebar();
+  renderSidebar();
 }
 function initFeatures(boot){
   const updateZoom=factor=>{$('#zoom-reset').textContent=`${Math.round(factor*100)}%`;};
@@ -170,6 +167,7 @@ function initFeatures(boot){
     if((event.target instanceof Element&&event.target.closest('input:not([type="checkbox"]),textarea,select'))||document.querySelector('dialog[open]'))return;
     if(event.key==='Escape'){$('#context-menu').hidden=true;return;}
     const menu=$('#context-menu');if(!menu.hidden&&['ArrowDown','ArrowUp'].includes(event.key)){event.preventDefault();const buttons=[...menu.querySelectorAll('button:not(:disabled)')],index=buttons.indexOf(document.activeElement);buttons[(index+(event.key==='ArrowDown'?1:-1)+buttons.length)%buttons.length]?.focus();return;}
+    if(event.target instanceof Element&&event.target.closest('#sidebar'))return;
     if(event.key==='ContextMenu'||(event.shiftKey&&event.key==='F10')){event.preventDefault();const row=document.activeElement.closest?.('.file-row'),rect=(row||state.panes[state.active].element.querySelector('.file-table')).getBoundingClientRect();showFileMenu(state.active,rect.x+20,rect.y+20,!selectedEntries().length);return;}
     const key=event.key.toLowerCase();let action;
     if(event.ctrlKey&&event.shiftKey&&key==='c')action='path';

diff --git a/src/renderer/styles.css b/src/renderer/styles.css
@@ -304,3 +304,39 @@ dd { color: #c3d2e1; margin: 5px 0; overflow-wrap: anywhere; }
 #columns-dialog { width:430px; }
 
 .app-unfocused .status-dot.busy { animation:none; }
+
+.sidebar { padding:0; min-height:0; }
+.sidebar-scroll { flex:1; min-height:0; overflow:auto; padding:57px 10px 15px; scrollbar-width:thin; scrollbar-color:#3a4650 transparent; }
+button.sidebar-heading { width:100%; min-height:28px; padding:5px 5px; margin:2px 0 6px; justify-content:flex-start; text-align:left; font-size:12px; font-weight:500; }
+button.sidebar-heading.drives-heading { margin-top:22px; }
+button.sidebar-heading:hover { background:#ffffff08; }
+button.sidebar-heading.section-current { color:#84c9ef; background:#1d3b5033; }
+.collapse-mark { width:12px; text-align:center; font-size:16px; line-height:14px; }
+.nav-row { display:flex; align-items:flex-start; min-width:0; padding-left:calc(var(--depth,0)*12px); }
+nav .nav-toggle { width:15px; min-width:15px; height:32px; margin:0; padding:0; font-size:15px; color:#7f929f; justify-content:center; }
+nav .nav-location { flex:1; min-width:0; width:auto; padding-left:4px; gap:7px; }
+nav .nav-label { overflow:hidden; text-overflow:ellipsis; white-space:nowrap; }
+nav .drive-button { padding-top:9px; }
+nav .drive-button .drive-info { gap:5px; font-size:12px; }
+nav .drive-button small { font-size:10px; }
+.nav-item:has(>.nav-row>.drive-button)>.nav-row>.nav-toggle { margin-top:2px; }
+.nav-children .tree-message,.nav-children .tree-retry,.nav-children .tree-more { display:block; margin:2px 0 4px 22px; padding:5px 4px; font-size:10px; color:#90a1ad; line-height:1.6; white-space:normal; text-align:left; height:auto; width:calc(100% - 24px); }
+.nav-children .tree-retry:hover,.nav-children .tree-more:hover { color:#bcd9eb; }
+.sidebar-tools { display:flex; flex-wrap:wrap; align-items:center; gap:2px; margin-top:14px; }
+.sidebar-tools .add-location { flex:1; margin:0; min-width:96px; padding:7px 4px; white-space:nowrap; gap:5px; }
+.sidebar-tools>button:not(.add-location) { width:26px; height:28px; padding:5px; }
+.sidebar-tools>button svg { width:15px; height:15px; }
+.pin-drop-zone { margin:5px 0 0 15px; padding:5px; font-size:10px; color:#8293a2; border:1px dashed #34414b; border-radius:4px; }
+.pin-drop-zone:not(.nav-drop-target) { opacity:.6; }
+.nav-drop-target { outline:1px solid #42b4e9 !important; background:#173e59 !important; }
+.nav-check { display:flex; align-items:center; gap:8px; margin-top:14px; font-size:12px; }
+.nav-check input { accent-color:#00b9f2; }
+#nav-add-error { color:#e9a49a; font-size:12px; }
+#nav-add-dialog { width:460px; }
+#nav-add-path,#nav-label-input { width:100%; }
+.sidebar-scroll nav { overflow:visible; max-height:none; }
+
+.nav-arrow-down { transform:rotate(180deg); }
+
+#custom-places { max-height:none; overflow:visible; }
+.sidebar>.sidebar-tools { flex-shrink:0; margin:0; padding:7px 10px 10px; border-top:1px solid #293238; }

diff --git a/README.md b/README.md
@@ -4,7 +4,7 @@ Everything의 빠른 파일명 검색과 Q-Dir의 다중 패널 탐색 경험을
 
 ![확정한 디자인 시안](docs/design-concept.png)
 
-## 현재 구현 — v0.4.3
+## 현재 구현 — v0.5.0
 
 폴더·문서·돋보기 모양의 대표 아이콘을 창·작업 표시줄·실행 파일에 적용했습니다. 원본은 `assets/app-icon.svg`이며 `pnpm icon:build`로 PNG와 Windows ICO(16~256px)를 다시 생성할 수 있습니다.
 
@@ -52,6 +52,17 @@ Ctrl+마우스 휠로 글자·아이콘·버튼·패널·상태 표시줄을 함
 
 미리보기는 로컬 텍스트(앞부분 128 KB), PNG/JPEG/WebP/BMP/GIF/AVIF 이미지와 PDF를 지원합니다. 40 MB를 초과하는 파일은 내용 미리보기를 생략합니다. 텍스트와 HTML은 실행하지 않고 글자로 표시하며 PDF는 Chromium의 PDF 뷰어를 사용합니다. Word·Excel 본문 미리보기는 아직 지원하지 않습니다.
 
+## 네비게이션
+
+- 즐겨찾기·내 PC 제목을 클릭하거나 Enter/Space로 접기·펼치기. 접힘 상태는 저장됩니다.
+- 각 항목 왼쪽 화살표로 하위 폴더를 펼칩니다. 실제로 펼친 폴더만 읽고, 접힌 섹션의 하위 폴더는 펼칠 때 불러옵니다. 오류 시 다시 시도할 수 있습니다.
+- 현재 폴더 고정 버튼, 폴더 경로 입력 또는 선택으로 로컬·UNC 폴더를 추가합니다. `검색 대상에도 포함`을 끄면 바로가기만 추가합니다.
+- 추가한 바로가기의 드래그 순서 변경, 우클릭으로 표시 이름 변경·위아래 이동·제거. 표시 이름과 순서를 저장하며 실제 폴더는 변경하지 않습니다.
+- Ctrl+클릭·휠클릭 또는 우클릭 메뉴로 새 탭에서 열기, 다른 패널에서 열기, Windows 탐색기 열기, 경로 복사·속성을 제공합니다.
+- 즐겨찾기 제목이나 고정 영역에 폴더를 놓으면 바로가기로 고정합니다. 폴더 항목에 파일을 놓으면 해당 폴더로 복사하고 Shift를 누르면 이동합니다.
+- 바로가기 제거와 검색 대상 제외는 별도 명령입니다. 네비바에서 Delete는 추가한 바로가기만 제거하며 실제 폴더를 삭제하지 않습니다.
+- 네비바 새로고침 버튼·F5로 폴더 트리와 드라이브 용량을 다시 확인합니다. 방향키로 항목 이동·펼치기·접기를 지원하며 목록이 길면 네비바 안에서 스크롤합니다.
+
 ## 자동 갱신과 네트워크 폴더
 
 파일 변경 알림은 해당 폴더를 표시하는 패널에만 반영합니다. 앱이 포커스를 잃으면 화면 갱신을 보류하고, 포커스가 돌아오면 한 번에 갱신합니다. 목록이 같으면 다시 그리지 않고, 실제 변경이 있더라도 탭·주소 표시줄·스크롤·선택 상태를 유지합니다. 검색 인덱스의 진행 알림마다 검색 화면을 비우던 동작도 제거했습니다.
@@ -84,7 +95,7 @@ pnpm test       # 실제 파일 시스템 및 검색 워커 테스트
 pnpm smoke      # 실제 UI 선택→복사→충돌→이름 변경→드래그 이동→Windows 휴지통 검증
 pnpm preview    # http://127.0.0.1:4173 디자인 확인용, 예시 데이터
 pnpm design:check # 시안 크기와 작은 창의 실제 Electron 화면 캡처, 예시 데이터
-pnpm package    # release/0.4.3/QuadFinder-win32-x64/QuadFinder.exe
+pnpm package    # release/0.5.0/QuadFinder-win32-x64/QuadFinder.exe
 ```
 
 ## 검색 범위와 제한
